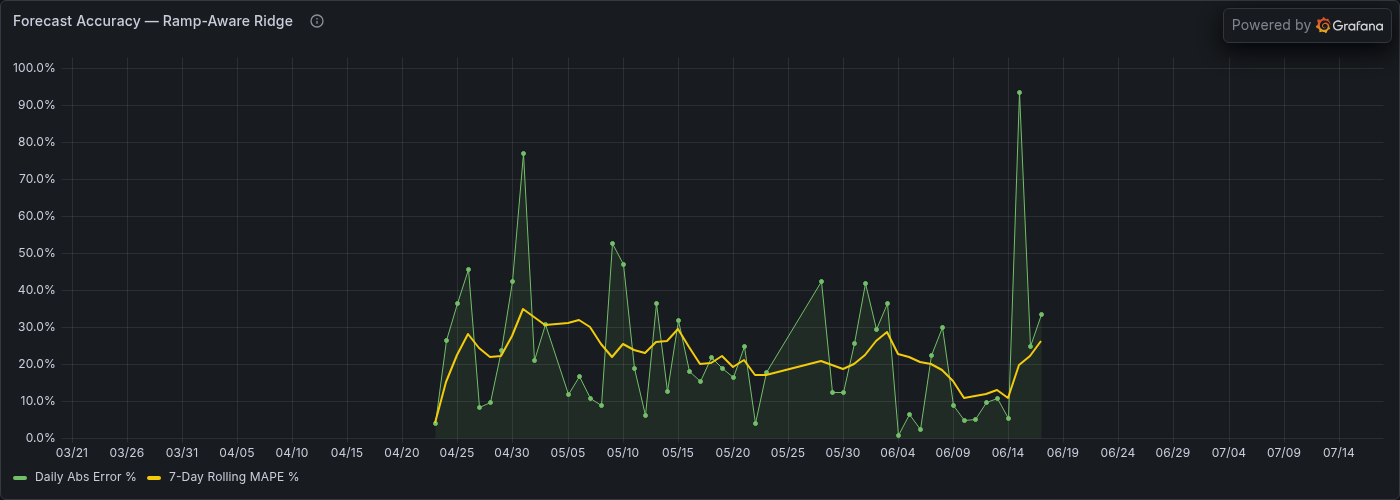
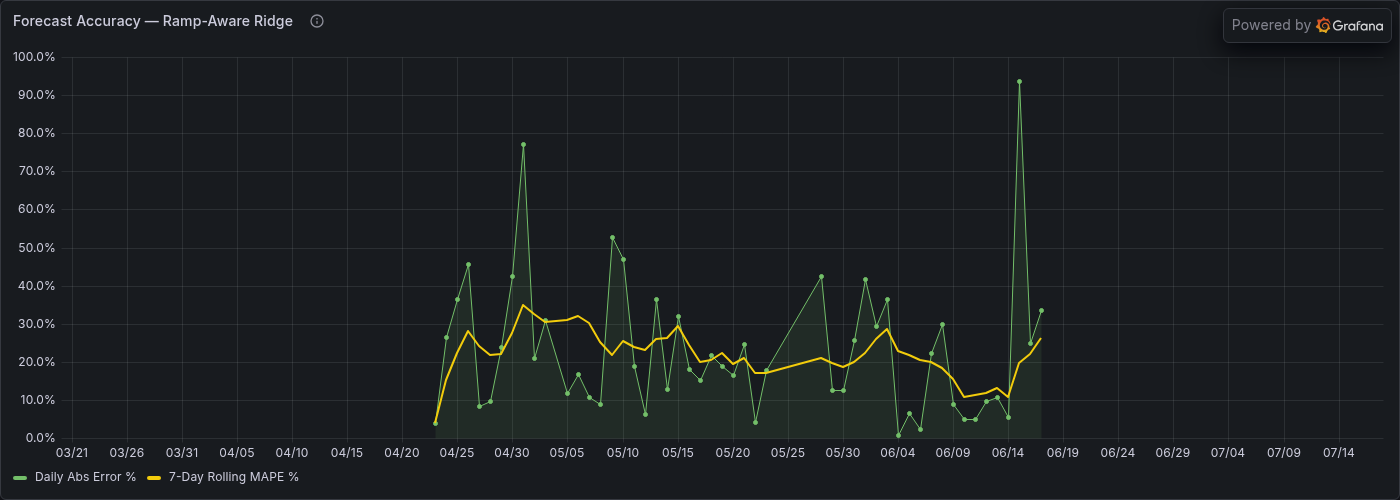
fix: cap accuracy Y-axis at 100%; smarter Grafana/screenshot guidance
dashboard.json v43:
- Add "max": 100 to fieldConfig.defaults for accuracy panels 76 (Section 7
  heuristic) and 86 (Section 7A ramp-aware). Without the cap, a single
  anomaly day with 8000%+ error compressed all recent data to appear falsely
  perfect at 0% scale. Both panels now show 0-100% on identical axes for
  direct comparison.

CONTRIBUTING.md + claude-review-guidelines.md:
- Clarify sandbox-vs-prod for Grafana: sandbox data never appears in Grafana
  (prod datasource); must apply migrations + run materialize against prod
  before taking screenshots
- Document Grafana Render API as the correct screenshot method (NOT Playwright
  or browser — Grafana Cloud SSO is unreliable in automated sessions)
- Add axis convention rule: accuracy/MAPE panels must have max=100
- Claude review guidelines: screenshots with 'No data' do not satisfy §D2b

diff --git a/CONTRIBUTING.md b/CONTRIBUTING.md
@@ -160,12 +160,30 @@ Non-additive schema changes (column removal, rename, reorder) are never exempt.
 
 #### Grafana dashboard changes — push to prod before review, post evidence in §4
 
-`agents/bhaga/grafana/dashboard.json` is the source of truth. The `grafana-dashboard-sync.yml`
-workflow re-syncs it from `main` on every merge, but **do not rely on it as the review-time deploy
-path** — push the dashboard from your branch *before* opening the PR for review so the reviewer sees
-the live result.
+`agents/bhaga/grafana/dashboard.json` is the source of truth. **Push the dashboard and populate
+prod data before creating the PR** so the reviewer sees live charts — not empty "No data" panels.
 
-**Step 1 — deploy the branch dashboard:**
+##### Why prod data, not sandbox?
+
+BQ new tables/views created on this branch only exist in the sandbox dataset during integration
+tests. Grafana reads from the **prod `bhaga` dataset** (the datasource is hardwired to
+`jarvis-bhaga-prod`). Sandbox data never appears in Grafana. For PRs adding new BQ tables or
+views, apply the migrations and run `materialize_model_bq` against prod before taking screenshots:
+
+```bash
+# 1. Apply migrations to prod BQ (idempotent — safe to run on any branch)
+BHAGA_DATASTORE=bigquery python3 -c "from core.datastore import ensure_schema; print(ensure_schema())"
+
+# 2. Populate prod tables (new tables only; existing tables are gap-fill-safe)
+BHAGA_DATASTORE=bigquery python3 -m agents.bhaga.scripts.materialize_model_bq --store palmetto
+```
+
+This is safe: new tables use `CREATE TABLE IF NOT EXISTS` / `CREATE OR REPLACE VIEW` and the
+`materialize_model_bq` writes are idempotent (MERGE by date key). It does NOT change any existing
+prod tables.
+
+##### Step 1 — deploy the branch dashboard to prod Grafana
+
 ```bash
 python3 agents/bhaga/grafana/deploy.py --org-slug steadyangelfish2985
 ```
@@ -173,36 +191,54 @@ Output should end with:
 ```
 [bhaga-grafana-deploy] Dashboard deployed: https://steadyangelfish2985.grafana.net/d/bhaga-analytics-v1/bhaga-analytics
 ```
+A branch deploy is safe and reversible — `grafana-dashboard-sync.yml` re-syncs from `main` on
+merge (the repo JSON is always the source of truth).
 
-**Step 2 — capture screenshots for visual changes (axis caps, colors, panel layout):**
+##### Step 2 — capture screenshots using the Grafana Render API
 
-Reviewers cannot open Grafana directly, so screenshots are required for any visual property change.
-Use the Grafana Render API:
+**Do not use Playwright or the browser UI** — Grafana Cloud login requires SSO which is unreliable
+in automated sessions. Use the service-account token from Keychain with the Render API directly:
+
 ```bash
-GRAFANA_API_TOKEN=$(security find-generic-password -s grafana-cloud-api-token -a steadyangelfish2985 -w)
-curl -o docs/pr-evidence/<PR#>/panel_<id>.png \
-  "https://steadyangelfish2985.grafana.net/render/d-solo/bhaga-analytics-v1?panelId=<id>&width=800&height=400&from=now-30d&to=now" \
-  -H "Authorization: Bearer $GRAFANA_API_TOKEN"
-```
-Commit the PNG(s) to `docs/pr-evidence/<PR#>/` on the branch, then reference in the PR body via:
-```markdown
-![panel](https://raw.githubusercontent.com/aditya2kx/jarvis/<branch>/docs/pr-evidence/<PR#>/panel_<id>.png)
+GRAFANA_TOKEN=$(security find-generic-password -s "grafana-cloud-api-token" -w)
+DIR="docs/pr-evidence/<PR#>"
+mkdir -p "$DIR"
+BASE="https://steadyangelfish2985.grafana.net/render/d-solo/bhaga-analytics-v1/bhaga-analytics"
+
+# Replace panelId=<N> with the IDs of changed/new panels
+# Time range: use from=now-90d&to=now%2B30d to show both history and forecast
+curl -s "$BASE?orgId=1&panelId=<N>&width=1400&height=500&from=now-90d&to=now%2B30d&theme=dark" \
+  -H "Authorization: Bearer $GRAFANA_TOKEN" \
+  -o "$DIR/panel-<N>.png"
 ```
 
-**Step 3 — paste evidence into PR §4:**
+Commit the PNGs and inline them in the PR description:
+```markdown
+![Panel description](docs/pr-evidence/<PR#>/panel-<N>.png)
+```
+
+##### Step 3 — paste evidence into PR §4
+
 - The `[bhaga-grafana-deploy] Dashboard deployed: <url>` line
-- The live dashboard URL
-- Screenshots (inline in the PR description via raw.githubusercontent.com)
+- The live dashboard URL: https://steadyangelfish2985.grafana.net/d/bhaga-analytics-v1/bhaga-analytics
+- Screenshots showing the changed panels with real data (not "No data")
+
+##### Axis conventions
+
+- **Forecast accuracy panels (% error, MAPE):** Y-axis must be `"min": 0, "max": 100`. Values above
+  100% are outliers from anomaly days — capping at 100 keeps the chart readable and comparable
+  across panels. Anomaly days should appear as `forecast_exclude=true` in the exclusions table, not
+  distort the accuracy scale.
+- **Order/item count panels:** Y-axis should start at 0, no forced max.
 
 **Rules:**
-- A branch deploy is safe and reversible — `grafana-dashboard-sync.yml` re-syncs from `main` on
-  merge, so the source of truth is always the repo. If the PR is abandoned, re-run the sync workflow.
-- Do **not** hand-edit panels in the Grafana UI as a source of truth.
-- Do **not** use `deploy.py` to push anything other than `dashboard.json` changes — BigQuery/Sheets
-  data follows the normal merge-to-deploy flow (`RUNBOOK.md` §9).
+- Do **not** hand-edit panels in the Grafana UI — always edit `dashboard.json` and re-deploy.
+- Do **not** use `deploy.py` to push anything other than `dashboard.json` changes.
+- Do **not** rely on Playwright browser automation for screenshots — use the Render API as above.
 
-The Claude reviewer checks for deploy output + URL + screenshot in §4 for any `dashboard.json` PR
-(see `.github/claude-review-guidelines.md §D2b`). Missing evidence → REQUEST CHANGES.
+The Claude reviewer checks for deploy output + URL + screenshots with visible data in §4 for any
+`dashboard.json` PR (see `.github/claude-review-guidelines.md §D2b`). Missing or "No data"
+screenshots → REQUEST CHANGES.
 
 - **Backward compatible by default.** Schema changes are additive (no column reorder/removal), existing
   consumers and the nightly `daily_refresh` keep working, and you *prove* it (legacy suite green, or a

diff --git a/.github/claude-review-guidelines.md b/.github/claude-review-guidelines.md
@@ -117,19 +117,42 @@ post-run verify gate (Firestore/BQ state) counts as 95-100% real-execution evide
 
 ## D2b. Grafana dashboard changes — required evidence checklist
 
-If this PR modifies `agents/bhaga/grafana/dashboard.json`, §4 **must** contain all three:
+If this PR modifies `agents/bhaga/grafana/dashboard.json`, §4 **must** contain all four:
 
 1. **Deploy output** — the `[bhaga-grafana-deploy] Dashboard deployed: <url>` line from running
    `python3 agents/bhaga/grafana/deploy.py --org-slug steadyangelfish2985` before review.
 2. **Live URL** — the Grafana dashboard link so the reviewer can navigate to the affected panel(s).
-3. **Screenshot(s)** for any visual property change (axis scale, color, layout, panel title) — the
-   reviewer cannot open Grafana directly. PNGs rendered via the Grafana Render API, committed to
-   `docs/pr-evidence/<PR#>/` on the branch, and inlined via raw.githubusercontent.com URLs.
+3. **Screenshot(s) with real prod data** — PNGs showing the changed panels with visible data (not
+   "No data"). Screenshots with "No data" do not satisfy this requirement. Rendered via the Grafana
+   Render API (see recipe below), committed to `docs/pr-evidence/<PR#>/`, and inlined in the PR body.
+4. **Prod BQ populated** — if the PR adds new BQ tables/views that Grafana reads, those tables must
+   be populated in prod before taking screenshots (apply migrations + run materialize against prod).
+   Sandbox data never appears in Grafana — sandbox is for integration test evidence only.
 
-Full deploy + screenshot recipe: **`CONTRIBUTING.md` § "Grafana dashboard changes"**.
+**Screenshot method — Grafana Render API (NOT Playwright/browser):**
+```bash
+GRAFANA_TOKEN=$(security find-generic-password -s "grafana-cloud-api-token" -w)
+curl -s "https://steadyangelfish2985.grafana.net/render/d-solo/bhaga-analytics-v1/bhaga-analytics\
+?orgId=1&panelId=<N>&width=1400&height=500&from=now-90d&to=now%2B30d&theme=dark" \
+  -H "Authorization: Bearer $GRAFANA_TOKEN" \
+  -o "docs/pr-evidence/<PR#>/panel-<N>.png"
+```
+The keychain service name is exactly `"grafana-cloud-api-token"` (no account qualifier needed).
+Do NOT use Playwright or browser automation — Grafana Cloud uses SSO which fails in automated sessions.
+The Render API is the only reliable method.
+
+**Axis conventions — flag as REQUEST CHANGES if violated:**
+- **Forecast accuracy panels** (any panel showing % error or MAPE over time): Y-axis **must** have
+  `"min": 0, "max": 100` in `fieldConfig.defaults`. Values above 100% are outlier anomaly days that
+  belong in the `forecast_exclude` column — leaving the Y-axis unbounded makes recent performance
+  look falsely perfect by compressing the scale after an early spike.
+- **Order/item count panels:** Y-axis starts at 0, no forced max.
+
+Full deploy + prod-data + screenshot recipe: **`CONTRIBUTING.md` § "Grafana dashboard changes"**.
 
 **Flag as REQUEST CHANGES** if `dashboard.json` changed but §4 is missing the deploy output, the
-live URL, or screenshots for visual changes. "Will sync on merge" is not acceptable.
+live URL, screenshots with visible data, or if Y-axis max is missing on an accuracy/MAPE panel.
+"Will sync on merge" or "No data — prod data populates after merge" are not acceptable.
 
 ## D2c. Cost & cleanup discipline (from CONTRIBUTING.md § Design & execution principles)
 - **Token / cost:** flag obvious cost regressions — per-row network calls, unbounded LLM turns,